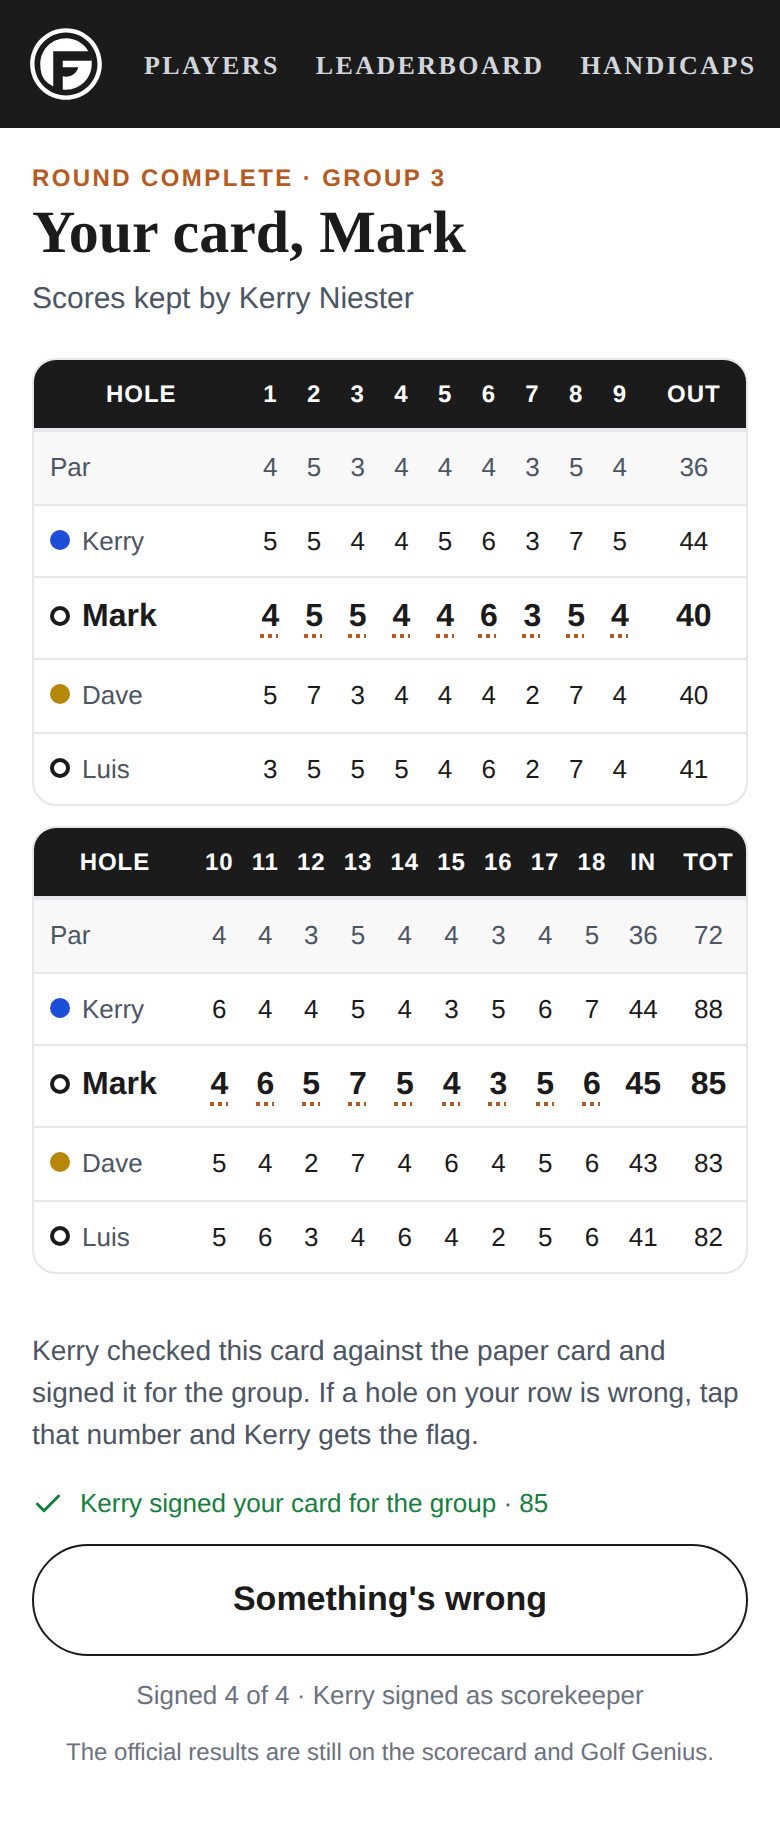
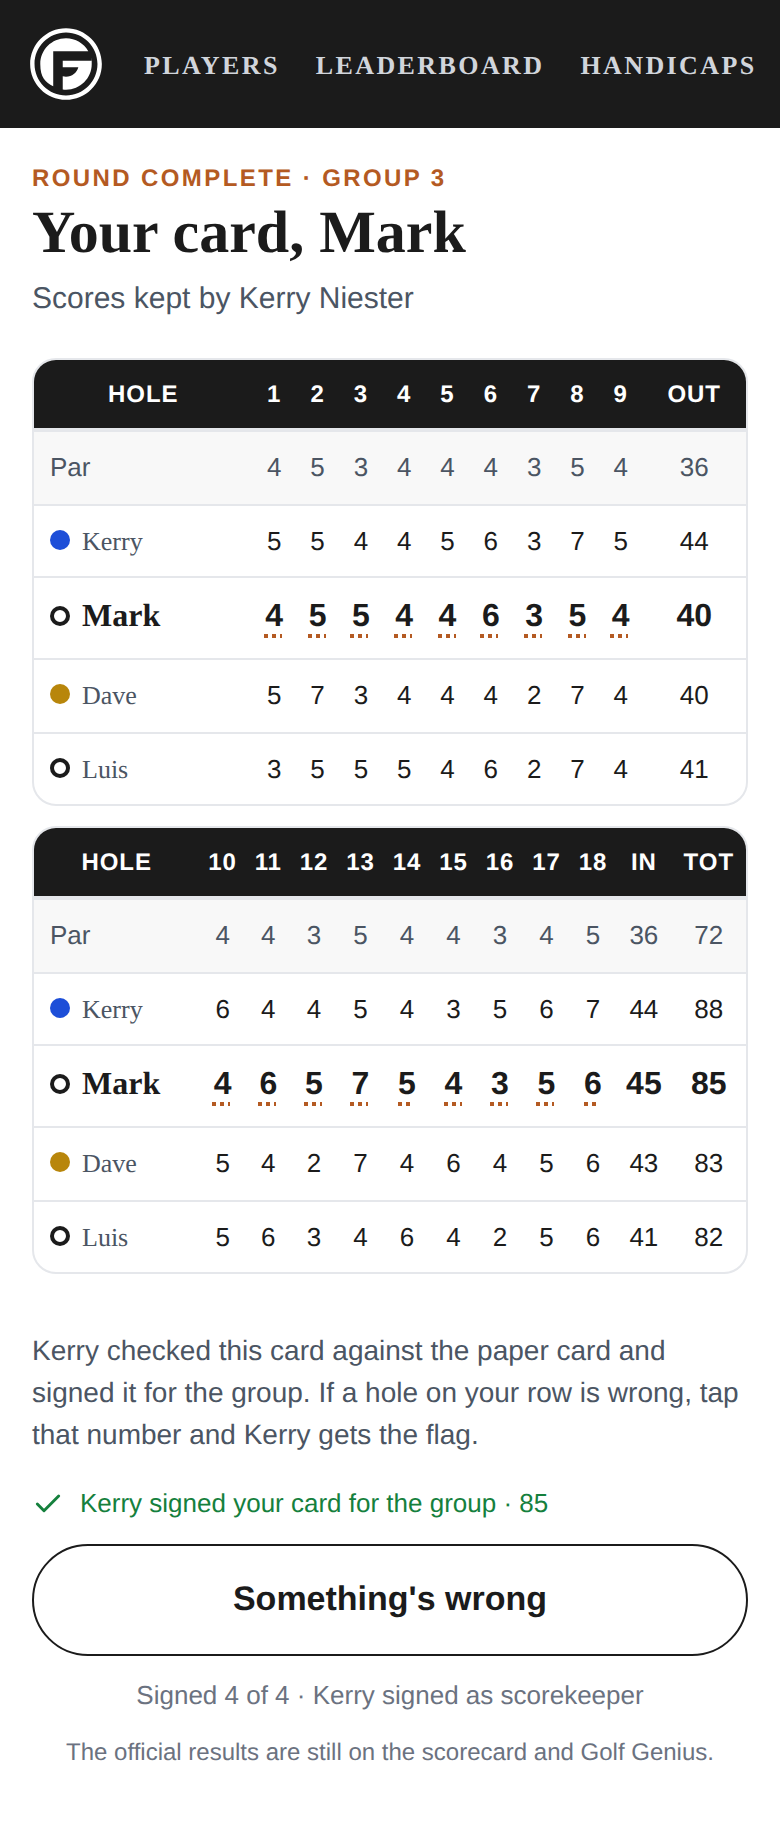
Score entry: player names in Bitter (v2.496.2)
Claude-Session: https://claude.ai/code/session_01PeGTnLppc6bpJPrSmUWsVP

diff --git a/transaction-tracker/templates/score_entry.html b/transaction-tracker/templates/score_entry.html
@@ -176,6 +176,14 @@
                  box-shadow: inset 0 0 0 2px #E87C3E; }
         .se-pu-row { display: flex; align-items: center; justify-content: space-between; gap: 10px; margin-top: 10px; }
         .se-legend { font-size: 12px; color: #6B7280; margin-top: 6px; white-space: normal; }
+        /* NAMES IN BITTER (Kerry 2026-09-26: "I'd like to use the Bitters
+           text for names on the display. I like how that looks on the
+           LEADERBOARD / EVENTS scoring."): every player name on every
+           screen; the numbers beside them stay sans with tabular figures. */
+        .se-name, .se-name-btn span:first-child, .se-card td.nm, .se-tots div,
+        .se-pu-name { font-family: Bitter, Georgia, serif; }
+        .se-card tr.par td.nm { font-family: 'Helvetica Neue', Helvetica, Arial, sans-serif; }
+        .se-tots b { font-family: Bitter, Georgia, serif; }
         .se-foot { font-size: 13px; color: #6B7280; text-align: center; margin-top: 10px; white-space: normal; }
         .se-hio { border: 2px solid #E87C3E; }
         .se-note { font-size: 12px; color: #6B7280; margin-top: 10px; white-space: normal; }
@@ -560,7 +568,7 @@
                 if (!sub) return "";
                 const a = pickupAns[k];
                 return `<div class="se-box" style="margin-bottom:10px">
-                    <div style="font-size:17px;font-weight:700">${esc(sub.name)}${mtag(sub.cids)} · ${hi}</div>
+                    <div class="se-pu-name" style="font-size:17px;font-weight:700">${esc(sub.name)}${mtag(sub.cids)} · ${hi}</div>
                     <div class="se-meta">${esc(vsText(sub.cids))}</div>
                     <div class="se-chips" style="margin-top:10px">
                       <button type="button" class="se-chip ${a === "holed" ? "on" : ""}" data-act="pu" data-key="${k}" data-m="holed">Ball in hole</button>

diff --git a/transaction-tracker/static/js/version.js b/transaction-tracker/static/js/version.js
@@ -1,5 +1,13 @@
-window.TGF_VERSION = "2.496.1";
+window.TGF_VERSION = "2.496.2";
 window.TGF_CHANGELOG = [
+  {
+    version: "2.496.2",
+    date: "2026-09-26",
+    title: "Score entry: player names in Bitter",
+    changes: [
+      "Kerry, 2026-09-26: 'I'd like to use the Bitters text for names on the display. I like how that looks on the LEADERBOARD / EVENTS scoring.' Every player name on the score-entry screens (the join list, the hole rows, the check card, the sign card, the totals and the match prompt) is now Bitter; the scores beside them stay sans with tabular figures."
+    ]
+  },
   {
     version: "2.496.1",
     date: "2026-09-26",

diff --git a/transaction-tracker/docs/claude/score-entry.md b/transaction-tracker/docs/claude/score-entry.md
@@ -219,6 +219,9 @@ is Triple".
   It Works pill (orange, white Bitter capitals, as `.pr-hiw-link`). "Who kept
   the paper card?" offers **Me**; picking it shows "Next time, please have
   one person keep the paper card and another Live Scoring."
+- **Names in Bitter (v2.496.2, Kerry 2026-09-26):** "I'd like to use the
+  Bitters text for names on the display." Every player name on every
+  score-entry screen; numbers stay sans.
 
 ## Max Triple, and no ace on a par 5 (v2.493.3)
 
